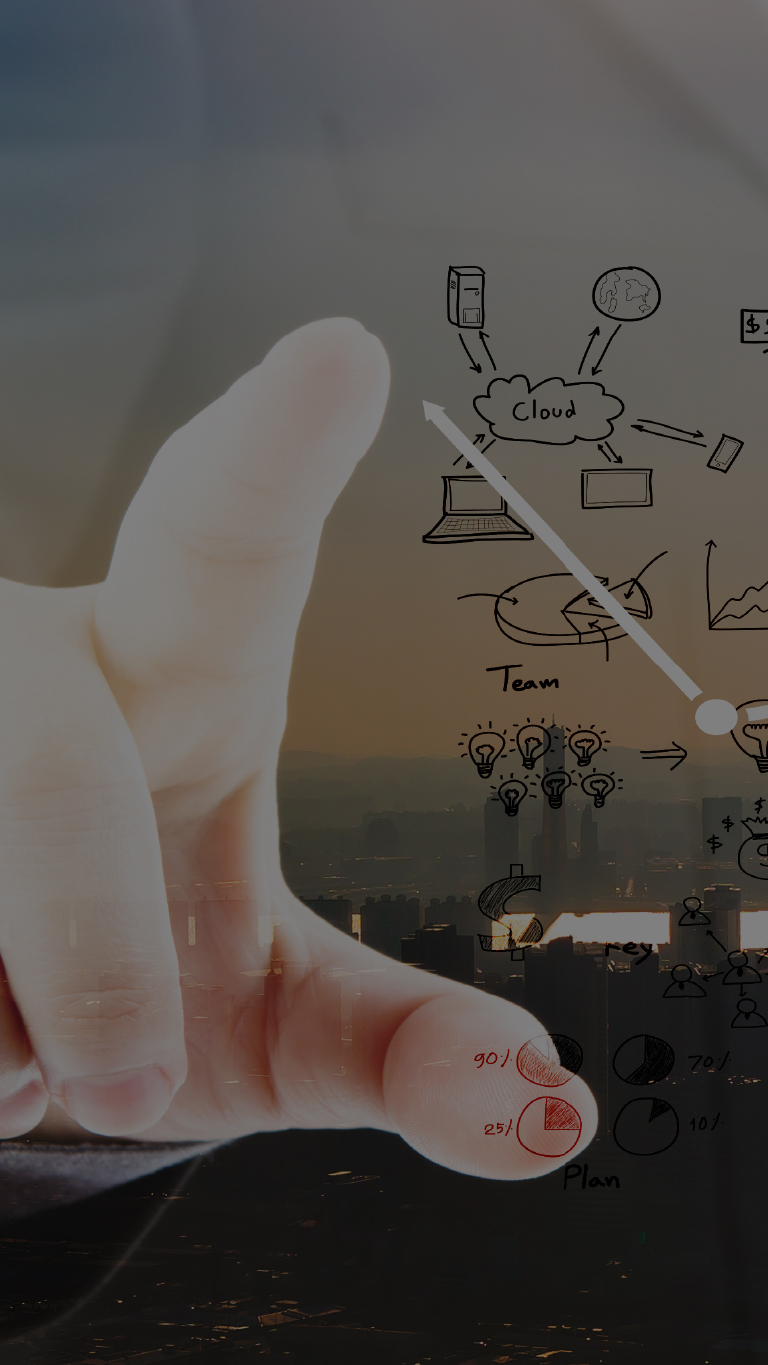
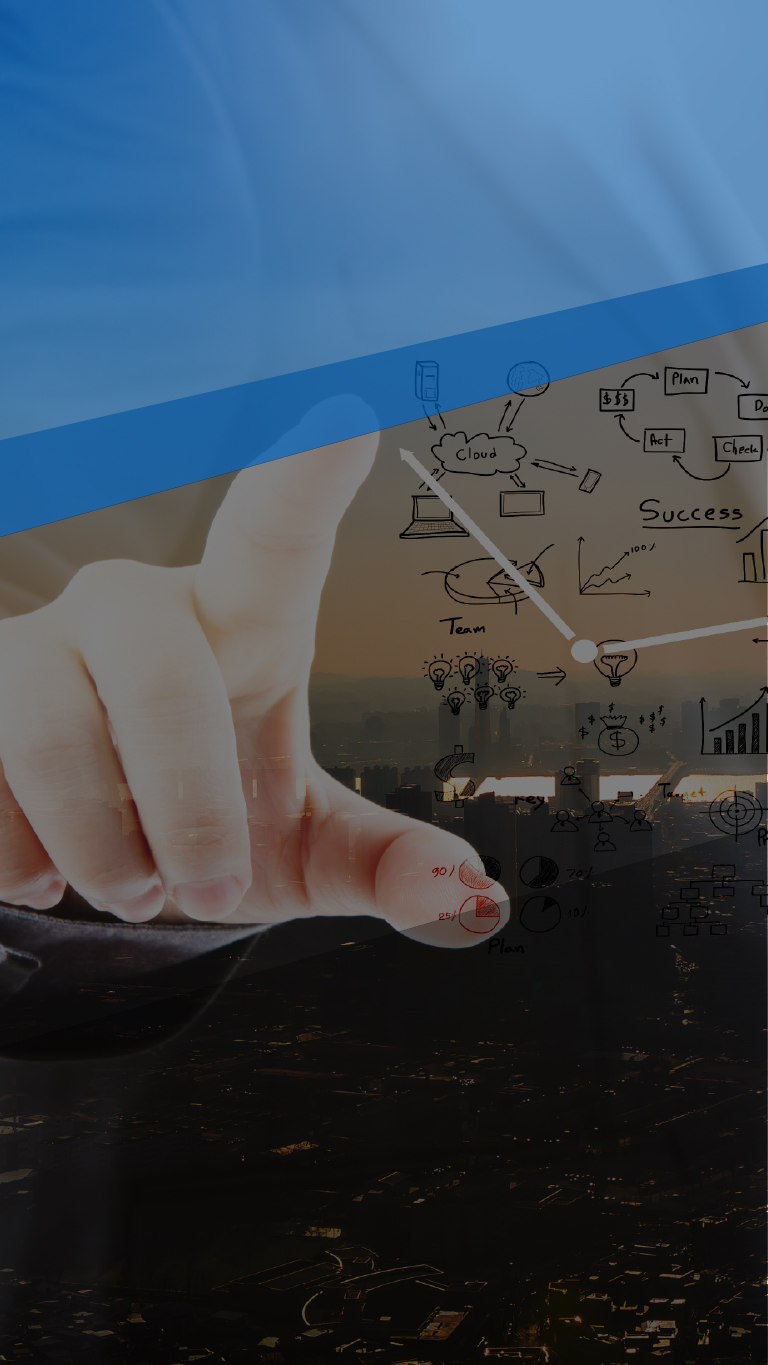
new images

diff --git a/TWOWebPage/index.html b/TWOWebPage/index.html
@@ -114,7 +114,7 @@
 
 <body id="page-top" class="two">
     <div class="container-fluid" ng-controller="twocontroller" ng-init="init()">
-
+        <!--
         <div style="position: relative;">
             <div style="position:relative;">
                 <picture>
@@ -131,44 +131,66 @@
                 <div class="clearfix">&nbsp;</div>
             </div>
         </div>
-
+-->
         <section>
-                <div class="container-fluid r-l-pad r-r-pad">
-                    <div class="header-top">
-                        <div class="header-pic">
-                            <picture>
-                                <source media="(min-width: 992px)" srcset="http://remoteapp.softwaredesign.ae/EmailTemplateImages/selldoremailcampaign/images/selldor_v20_1920_bg_01.jpg">
-                                <source media="(min-width: 768px)" srcset="http://remoteapp.softwaredesign.ae/EmailTemplateImages/selldoremailcampaign/images/selldor_v20_1280_bg_01.jpg">
-                                <source media="(max-width: 768px)" srcset="https://raw.githubusercontent.com/bienjerico/emailcampaign/master/TWOWebPage/img/two_head_img.png.jpg">
-                                <img src="http://remoteapp.softwaredesign.ae/EmailTemplateImages/selldoremailcampaign/images/selldor_v20_1920_bg_01.jpg"
-                                    alt="Selldor">
-                            </picture>
-                        </div>
-                        <div class="header-content">
-                            <div class="container">
-                                <div class="col-xs-12 col-sm-7">
-                                    <h1><span class="txt-color-blue">Sell</span><span class="txt-color-white">DOR</span></h1>
-                                    <h3><span class="txt-color-white">Improve your distribution process
-                                        <br/>Increase your sales performance
-                                        <br/>Speed up your ordering flow... <br/>Whilst on the road!</span></h3>
-                                </div>
-                                <div class="col-xs-12 col-sm-5">
-                                    <img class="img-responsive" src="http://remoteapp.softwaredesign.ae/EmailTemplateImages/selldoremailcampaign/images/selldor_v20_iphone_1.png">
+            <div class="container-fluid r-l-pad r-r-pad">
+                <div class="header-top">
+                    <div class="header-pic">
+                        <picture>
+                            <source media="(min-width: 992px)" srcset="https://raw.githubusercontent.com/bienjerico/emailcampaign/master/TWOWebPage/img/two_head_img_1920.jpg">
+                            <source media="(min-width: 768px)" srcset="https://raw.githubusercontent.com/bienjerico/emailcampaign/master/TWOWebPage/img/two_head_img_1280.jpg">
+                            <source media="(max-width: 768px)" srcset="https://raw.githubusercontent.com/bienjerico/emailcampaign/master/TWOWebPage/img/two_head_img.jpg">
+                            <img src="https://raw.githubusercontent.com/bienjerico/emailcampaign/master/TWOWebPage/img/two_head_img_1920.jpg"
+                                alt="Task Work Order">
+                        </picture>
+                    </div>
+                    <div class="header-content-2">
+                        <div class="container-fluid">
+                            <div class="content-title-top">
+
+                                <h2>
+                                    Task Work Order
+                                </h2>
+                                <h3>
+                                    With Dolphin TWO
+                                </h3>
+                            </div>
+                            <div class="content-title-middle">
+                                    <div class="container">
+                                <h3>
+                                    Your solution to
+                                </h3>
+                                <h3>
+                                    Zen Multitasking
+                                </h3>
                                 </div>
                             </div>
-        
+                            <div class="content-title-bottom">
+                                <div class="container">
+                                    <p>
+                                        Time is money!
+                                    </p>
+                                    <div class="clearfix">&nbsp;</div>
+                                    <p>
+                                        Boost your business with <strong>Dolphin Task Work Order</strong>, Organize your
+                                        teams to-do list, Schedule tasks in a calendar, Assign tasks to the traffic department,
+                                        Improve your team’s productivity!
+                                    </p>
+                                </div>
+                            </div>
                         </div>
                     </div>
                 </div>
-            </section>
+            </div>
+        </section>
 
 
 
-       <section>
-           <div class="container-fluid bg-color-orange">
-               &nbsp;<br/>&nbsp;
-           </div>
-       </section>
+        <section>
+            <div class="container-fluid bg-color-orange">
+                &nbsp;<br/>&nbsp;
+            </div>
+        </section>
 
         <div class="clearfix hidden-xs">&nbsp;</div>
         <section>

diff --git a/TWOWebPage/css/campaign-style.css b/TWOWebPage/css/campaign-style.css
@@ -1,6 +1,7 @@
         .header-top {
             position: relative;
         }
+        
 
         .header-pic {
             position: relative;
@@ -18,6 +19,7 @@
             width: 100%;
             text-align: center;
         }
+        
 
         .header-content img {
             width: 50%;
@@ -38,6 +40,59 @@
             padding-bottom: 30px;
         }
 
+        .header-content-2 {
+            position: absolute;
+            top: 0;
+            width: 100%;
+            text-align: center;
+        }
+        .header-content-2 .content-title-top {
+            position: absolute;
+            top:15px;
+            left: 0;
+            right: 0;
+        }
+        .header-content-2 .content-title-bg {
+            background-color: #2368CC;
+            opacity: 0.75;
+            filter: alpha(opacity =75);
+            width: 100%;
+            height: 160px;
+        }
+
+        .header-content-2 .content-title-top h2{
+            color:#ffffff;
+            font-weight: 700;
+            font-size: 36px;
+        }
+        .header-content-2 .content-title-top h3{
+            color:#ffffff;
+            font-weight: 700;
+            padding:0;
+            font-size: 24px;
+            margin-top:0px; 
+        }
+        .header-content-2 .content-title-middle {
+            padding-top:20%;
+        }
+
+        .header-content-2 .content-title-middle h3{
+            color:#ffffff;
+            font-weight: 700;
+            padding:0;
+            font-size: 4.5vw;
+            margin-top:0px; 
+        }
+
+
+        .header-content-2 .content-title-bottom {
+            padding-top:20%;
+        }
+        .header-content-2 .content-title-bottom p {
+            color:#ffffff;
+            font-size: 4vw;
+        }
+      
         .txt-color-white {
             color: #ffffff;
         }
